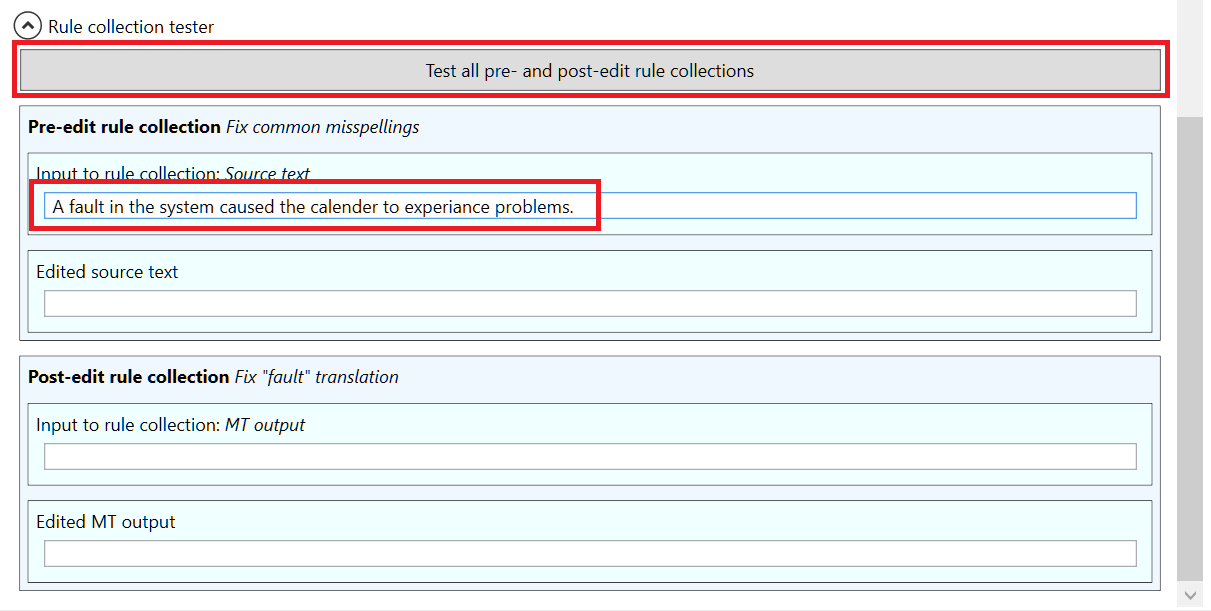
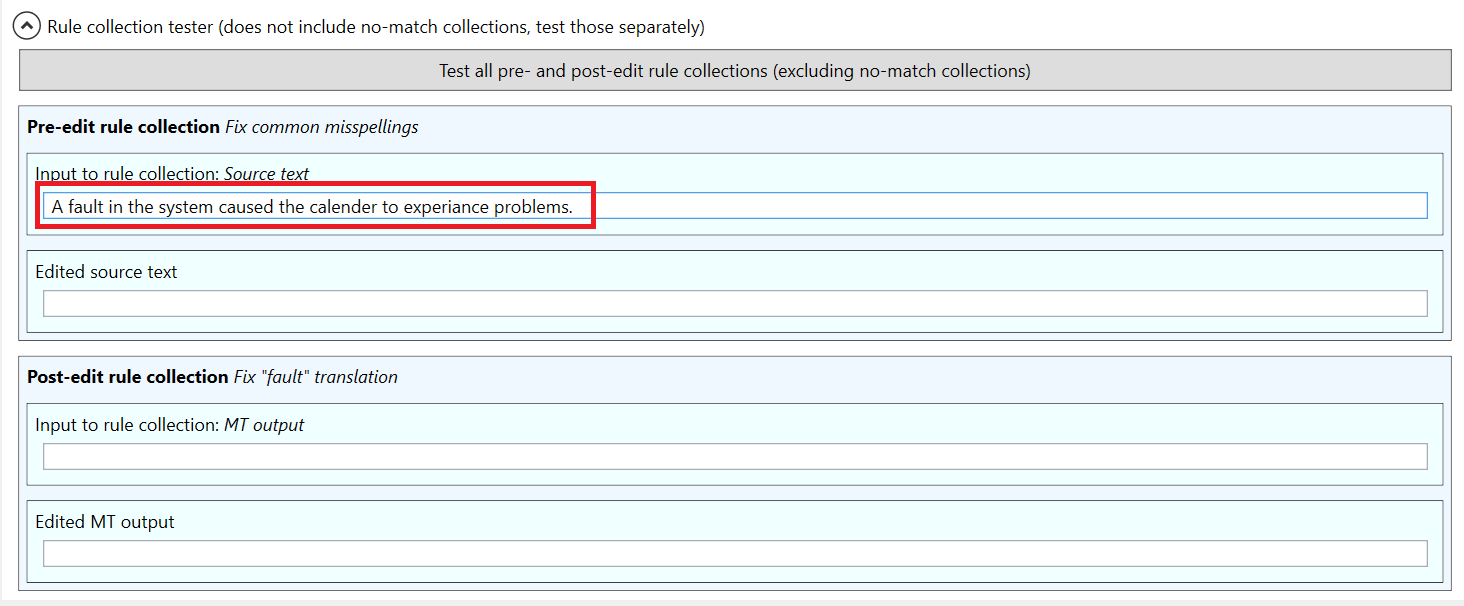
updated all sections

Changed region(s): [[0.0, 0.0, 1.0, 0.9802]]

diff --git a/index.md b/index.md
@@ -2,42 +2,40 @@
 layout: home
 ---
 
-TermInjectorPlus is an updated version of the TermInjector plugin for Trados Studio. With TermInjectorPlus, you can define three types of rules:
-1. Pre-edit rules: Rules that modify source text before it is sent to a translation provider (translation memory or machine translation engine). These rules can be used to fix source errors or to modify constructions that are difficult for machine translation engines.
-2. Post-edit rules: Rules that modify the translations from a translation provider. These rules can be used to fix recurring error in translation provider output.
-3. No-match rules: Rules that modify the source text, which are only applied in case a translation provider does not provide a match. These rules can be used for instance to convert dates and numbers and to add translations for parts of the source text.
+TermInjectorPlus is an updated version of the TermInjector plugin for Trados Studio. TermInjectorPlus can be used with most translation providers (translation memories and machine translation providers) available in Trados. TermInjector acts as a wrapper around a translation provider, and it can modify both the source text sent into the translation provider and the output text that the translation provider returns.
+
+In TermInjectorPlus, you can define three types of rules:
+
+1. **Pre-edit rules**: Rules that modify source text before it is sent to a translation provider (translation memory or machine translation engine). These rules can be used to fix source errors or to modify constructions that are difficult for machine translation engines.
+2. **Post-edit rules**: Rules that modify the translations from a translation provider. These rules can be used to fix recurring error in translation provider output.
+3. **No-match rules**: Rules that modify the source text, which are only applied in case a translation provider does not provide a match. These rules can be used for instance to convert dates and numbers and to add translations for parts of the source text. No-match rules can also be used without specifying a translation provider.
 
 Regular expressions ([.NET regex flavor](https://docs.microsoft.com/en-us/dotnet/standard/base-types/regular-expression-language-quick-reference)) can be used in the rules. Rules are organized into _rule collections_, which can contain any number of rules. 
 
 ## Contents
-1. [Quickstart (pre-edit rules without translation provider)](#Quickstart)
-2. [Selecting a translation provider](#select_tp)
-3. [Pre-edit rules with a translation provider](#pre_edit_with_tp)
-4. [Rule collections](#rule_collections) 
-5. [Post-edit rules](#post_edit_rules)
-6. [Rule testers](#rule_testers)  
-  4.1 [Testing the entire translation pipeline](#pipeline_tester)
-7. [Managing rule collections](#management)  
-  5.1 [Importing and exporting rule collections](#import_export)
-8. [Using regular expressions in rules](#regex)  
-  6.1 [Capturing groups](#cap_groups)  
-  6.2 [Changing the character case of text matched by capturing groups](#case_conversion)  
-  6.3 [Referencing source pattern capturing groups in post-edit rules](#source_ref)
-9. [Using rule collections sequentially](#sequential_use)
-10. Templates
+1. [Quickstart](#Quickstart)
+2. [Setting up a translation provider](#select_tp)
+3. [Rule collections](#rule_collections) 
+4. [Post-edit rules](#post_edit_rules)
+5. [Rule testers](#rule_testers)  
+  5.1 [Testing the entire translation pipeline](#pipeline_tester)
+6. [Managing rule collections](#management)  
+  6.1 [Importing and exporting rule collections](#import_export)
+7. [Using regular expressions in rules](#regex)  
+  7.1 [Capturing groups](#cap_groups)  
+  7.2 [Changing the character case of text matched by capturing groups](#case_conversion)  
+  7.3 [Referencing source pattern capturing groups in post-edit rules](#source_ref)
+8. [Using rule collections sequentially](#sequential_use)
+9. [Adding a no-match rule](#no_match)
+10. [Templates](#templates)
 
-### <a name="Quickstart"></a>1. Quickstart: Adding a simple pre-edit rule (no-match rule)
-
-### <a name="select_tp"></a>2. Quickstart: Selecting a translation provider
-
-### <a name="pre_edit_with_tp"></a>3. Adding a pre-edit rule for translation provider
+### <a name="Quickstart"></a>1. Quickstart: Adding a simple pre-edit rule
 
 1. Select **TermInjectorPlus** in the **Use** menu of **Project Settings**.
 
     <img src="./images/usemenu.png?raw=true" alt="drawing" width="100%"/>
 
-
-2. The **TermInjectorPlus** settings window opens. When you Open the **Translation provider** drop-down menu, you see a list of all the translation providers available in your Trados Studio. Select **File-based translation memory**.
+2. The **TermInjectorPlus** settings window opens. When you Open the **Translation provider** drop-down menu, you see a list of all the translation providers available in your Trados Studio. Select **File-based translation memory**, and then select a file-based translation memory in the file selection dialog that opens (any TM will do for the purposes of this step).
 
     <img src="./images/selecttp.png?raw=true" alt="drawing" width="100%"/>
 
@@ -67,13 +65,37 @@ Regular expressions ([.NET regex flavor](https://docs.microsoft.com/en-us/dotnet
 
     <img src="./images/editrules6.png?raw=true" alt="drawing" width="100%"/>
     
-7. Now that the rule is tested and verified to work, you can save it by clicking **Save** (note that testing the rule is not required, but it reduces the chance of mistakes, especially with more complex rules). When you click **Save**, the **Create edit rule** window is closed, and the new rule is displayed on the **Edit rules** tab of the MT Engine, and it will now be applied when machine translations are generated with this model:
+7. Now that the rule is tested and verified to work, you can save it by clicking **Save** (note that testing the rule is not required, but it reduces the chance of mistakes, especially with more complex rules). When you click **Save**, the **Create edit rule** window is closed, and the new rule is displayed in the **Pre-edit rules** section of TermInjectorPlus, and it will now be applied when  translations are retrieved from the selected translation provider:
 
     <img src="./images/preeditrule.png?raw=true" alt="drawing" width="100%"/>
+    <img src="./images/acheive.png?raw=true" alt="drawing" width="100%"/>
 
-### <a name="rule_collections"></a>2. Rule collections
 
-As mentioned, edit rules are organized into _rule collections_, which may contain any amount of rules. Every rule must be part of a rule collection, so when you create a rule using the **Create rule** button (as in the quickstart section above), a rule collection is also created to contain the rule. The default name of the created rule collection is the same as the description of the rule that it contains (_fix "acheive" misspelling_ in the example above). You can edit a rule collection by selecting it from the list and clicking **Edit rule collection**:
+### <a name="select_tp"></a>2. Setting up a translation provider
+
+In the [Quickstart](#Quickstart), we selected a file-based translation as the translation provider. This required simply selecting the file-based translation memory in the file selection dialog, but some translation providers require more setting up. This is especially the case with machine translation providers, as they often require specifying an API key.
+
+Whenever you select a translation provider from the **Translation provider** drop-down, the settings window of the translation provider opens, and you need to specify the information that the translation provider requires. As an example, let's set up the OPUS-CAT machine translation provider:
+
+1. Install the **OPUS-CAT plugin** from RWS appstore (can be accessed from the **Add-Ins** tab of the Trados ribbon).
+
+2. Install **OPUS-CAT MT Engine** by following the instructions [here](https://helsinki-nlp.github.io/OPUS-CAT/install).
+
+3. Click the **Translation provider** drop-down and select **OPUS-CAT**:
+
+  <img src="./images/opuscat_settings.png?raw=true" alt="drawing" width="100%"/>
+
+4. The OPUS-CAT plugin settings window opens. As the plugin does not require an API key, we can simply click **Save** to confirm the selection of OPUS-CAT as the translation provider:
+
+  <img src="./images/opuscat_settings2.png?raw=true" alt="drawing" width="100%"/>
+  
+5. OPUS-CAT is now shown as the translator provider in TermInjectorPlus settings. You can modify the translation provider settings by clicking **Open settings**, or clear the translation provider by clicking **Clear**:
+
+  <img src="./images/opuscat_settings3.png?raw=true" alt="drawing" width="100%"/>
+
+### <a name="rule_collections"></a>3. Rule collections
+
+As mentioned, edit rules are organized into _rule collections_, which may contain any amount of rules. Every rule must be part of a rule collection, so when you create a rule using the **Create rule** button (as in the quickstart section above), a rule collection is also created to contain the rule. The default name of the created rule collection is the same as the description of the rule that it contains (_fix "acheive" misspelling_ in the quickstart). You can edit a rule collection by selecting it from the list and clicking **Edit rule collection**:
 
   <img src="./images/editrules8.png?raw=true" alt="drawing" width="100%"/>
 
@@ -87,11 +109,13 @@ The **Edit rules in collection** window contains a field for the name of the col
 
 <a name="global"></a>The **Edit rules in collection** window also contains a field for modifying the name of the collection, and a checkbox labeled **Global collection**. If the **Global collection** checkbox is checked, the collection can be added to other models by using the **Add rule collection** button in the **Edit rules** tab. The checkbox is unchecked by default for newly created models, to avoid cluttering the list of global collections.
 
+The **No-match collection** checkbox can be checked to indicate that the collection is a no-match collection, which means that its rules will only be applied in cases where the translation provider does not provide a match. See [No-match rules section](#nomatch) for more information.
+
 After you have edited the collection by adding, deleting, or modifying rules or by changing the collection name or its global status, you can either save the modifications by clicking the **Save** button, or reject them by clicking the **Cancel** button. 
 
-### <a name="post_edit_rules"></a>3. Post-edit rules
+### <a name="post_edit_rules"></a>4. Post-edit rules
 
-Post-edit rules are used to edit the output of the machine translation produced by the model. You can create a post-edit rule by clicking on the **Create rule** button in the **Post-edit rule collections** section of the **Edit rules** tab:
+Post-edit rules are used to edit the output of the translation provider. You can create a post-edit rule by clicking on the **Create rule** button in the **Post-edit rule collections** section of TermInjectorPlus settings:
 
   <img src="./images/editrules11.png?raw=true" alt="drawing" width="100%"/>
 
@@ -112,7 +136,7 @@ Here's a simple example rule, where all four fields are used:
 
   <img src="./images/editrules14.png?raw=true" alt="drawing" width="100%"/>
 
-This rule replaces the word _vika_ in the MT output with the word _virhe_, but only if the original source text contained the word _fault_. So in this rule, the source pattern is used as a condition for the replacement.
+This rule replaces the word _vika_ in the translation provider output with the word _virhe_, but only if the original source text contained the word _fault_. So in this rule, the source pattern is used as a condition for the replacement.
 
 <a name="post_edit_tester"></a>As in the **Create pre-edit rule** window, the lower section contains a tester, which can be used to verify that the rule works as intended. If a source pattern has been defined, the tester will contain an additional field for entering the test source text, against which the source pattern will be matched:
 
@@ -122,12 +146,12 @@ Once the post-edit rule has been defined, it can be saved by clicking the **Save
 
   <img src="./images/editrules13.png?raw=true" alt="drawing" width="100%"/>
 
-### <a name="rule_testers"></a>4. Rule testers
+### <a name="rule_testers"></a>5. Rule testers
 
 Rule testers can be used to verify that the edit rules work correctly both individually and in combination with other rules. Testers are available in the following contexts:
   1. **Create pre-edit rule** and **Create post-edit rule** windows
   2. **Edit rules in collection** window
-  3. **Edit rules** tab
+  3. TermInjectorPlus settings window
   
 Each rule tester is similar, but there are some differences. The testers in the **Create pre-edit rule** and **Create post-edit rule** windows are always visible, and they are always used to test a single rule at a time. See [Pre-edit rule tester](#pre_edit_tester) and [Post-edit rule tester](#post_edit_tester) for more information on these testers.
 
@@ -141,9 +165,9 @@ When you click the button, the tester expands. The following screenshot shows th
 
 As you can see from the image above, matches for all of the listed rules are highlighted in the tester.
 
-#### <a name="pipeline_tester">4.1 Testing the entire translation pipeline in the **Edit rules** tab
+#### <a name="pipeline_tester">5.1 Testing the entire translation pipeline in TermInjectorPlus settings
 
-The tester in the **Edit rules in collection** window is the most comprehensive tester, since it tests both the pre-edit and post-edit rule collections: the tester edits the source text with each of the pre-edit rule collections, then produces a machine translation from the edited source text, and finally edits the MT output with all the post-edit rule collections. This tester is also hidden by default, and it can be opened by clicking the expander button at the bottom of the tab:
+The tester in the TermInjectorPlus settings window is the most comprehensive tester, since it tests both the pre-edit and post-edit rule collections: the tester edits the source text with each of the pre-edit rule collections, then retrieves a match for the edited source text from the translation provider, and finally edits the translation provider output with all the post-edit rule collections. This tester is also hidden by default, and it can be opened by clicking the expander button at the bottom of the tab:
 
   <img src="./images/editrules17.png?raw=true" alt="drawing" width="100%"/>
 
@@ -157,9 +181,9 @@ If the **Edit rules** tab tester is being used for the first time, there will be
 
 The parts of the text, which match some rule, are highlighted. The image above shows that the original source text is first edited to correct two misspellings (_calender_ and _experiance_), the edited source text is then used as MT input, and the MT output is then edited to replace _vika_ with _virhe_ (as the source text fulfills the condition of having the word _fault_ in it). 
 
-### <a name="management"></a>5. Adding, removing, and deleting rule collections
+### <a name="management"></a>6. Adding, removing, and deleting rule collections
 
-Rule collections can be added, removed or deleted in the **Edit rules** tab. Rule collections that have been defined as [global](#global), can be used in multiple MT models, and they can be removed and added by using the **Add rule collection** and **Remove rule collection** buttons. Local and global rule collections can be permanently deleted by clicking the **Delete rule collection** button (deletion needs to be confirmed, as the same rule collection may be in use in other MT models):
+Rule collections can be added, removed or deleted in the **Edit rules** tab. Rule collections that have been defined as [global](#global), can be used with multiple translation providers, and they can be removed and added by using the **Add rule collection** and **Remove rule collection** buttons. Local and global rule collections can be permanently deleted by clicking the **Delete rule collection** button (deletion needs to be confirmed, as the same rule collection may be in use in other MT models):
 
   <img src="./images/editrules20.png?raw=true" alt="drawing" width="100%"/>
 
@@ -167,16 +191,16 @@ When you click the **Add rule collection** button, the **Add edit rule collectio
 
   <img src="./images/editrules21.png?raw=true" alt="drawing" width="100%"/>
 
-If we check the checkbox for the _Expand contractions_ rule collection and click the **Save** button, the _Expand contractions_ collection will be added to the rule collection list on the **Edit rules** tab:
+If we check the checkbox for the _Expand contractions_ rule collection and click the **Save** button, the _Expand contractions_ collection will be added to the rule collection list in the TermInjectorPlus settings window:
 
   <img src="./images/editrules22.png?raw=true" alt="drawing" width="100%"/>
   
-The addition of the collection is also reflected in the tester of the **Edit rules** tab. Two pre-edit rule collections are now displayed in the tester, and the rules of both collections are applied to the source sentence before it is machine translated:
+The addition of the collection is also reflected in the tester of the TermInjectorPlus settings window. Two pre-edit rule collections are now displayed in the tester, and the rules of both collections are applied to the source sentence before it is machine translated:
 
   <img src="./images/editrules23.png?raw=true" alt="drawing" width="100%"/>
   
 
-#### <a name="import_export"></a>5.1 Importing and exporting rule collections
+#### <a name="import_export"></a>6.1 Importing and exporting rule collections
 
 The **Add edit rule collection** window can also be used to import and export rule collections. There are two buttons in the top section of the window:
 
@@ -186,16 +210,16 @@ The **Add edit rule collection** window can also be used to import and export ru
   2. **Import rule collections**: With this button you can import rule collections and add them to the model. Imported rule collections become global, so they can also be used with other models after importing them. Next to this button is the **Replace existing rules** checkbox. If this checkbox is checked, the rule collections will overwrite existing rule collections that have same ID number. If the checkbox is not checked, the imported rule collection will receive a new ID number, and the old collection will not be overwritten.
   
 
-### <a name="regex"></a>6. Using regular expressions in rules
+### <a name="regex"></a>7. Using regular expressions in rules
 
-Both pre-edit and post-edit rules can contain regular expressions ([.NET regex flavor](https://docs.microsoft.com/en-us/dotnet/standard/base-types/regular-expression-language-quick-reference)). Regular expressions enhance the capability of the rules significantly. Providing a comprehensive tutorial on regular expression usage is beyond the scope of this documentation, so this section will only cover the usage of regular expressions in the OPUS-CAT MT Engine. However, there are many introductory articles aimed at translators available, e.g. [this article by Riccardo Schiaffino from the ATA Chronicle](https://www.ata-chronicle.online/highlights/regular-expressions-an-introduction-for-translators/).
+Both pre-edit and post-edit rules can contain regular expressions ([.NET regex flavor](https://docs.microsoft.com/en-us/dotnet/standard/base-types/regular-expression-language-quick-reference)). Regular expressions enhance the capability of the rules significantly. Providing a comprehensive tutorial on regular expression usage is beyond the scope of this documentation, so this section will only cover the usage of regular expressions in TermInjectorPlus. However, there are many introductory articles aimed at translators available, e.g. [this article by Riccardo Schiaffino from the ATA Chronicle](https://www.atanet.org/resources/regular-expressions-an-introduction-for-translators/).
 
 Regular expressions can be used in pre- and post-edit rules by checking the **Use regex** checkbox when creating or editing the rule:
 
   <img src="./images/editrules25.png?raw=true" alt="drawing" width="100%"/>
   <img src="./images/editrules26.png?raw=true" alt="drawing" width="100%"/>
   
-When the **Use regex** checkbox next to a rule pattern field has been checked, the pattern is interpreted as a regular expression. If the checkbox is not checked, regular expressions special characters in the pattern will be interpreted as normal text. Let's take for instance the special character _._ (period), which stands for any character in regular expressions. Let's say we have the pattern _Window._. If the **Use regex** checkbox has not been checked, the pattern will only match _Window._:
+When the **Use regex** checkbox next to a rule pattern field has been checked, the pattern is interpreted as a regular expression. If the checkbox is not checked, special characters in the pattern will be interpreted as normal text. Let's take for instance the special character _._ (period), which stands for any character in regular expressions. Let's say we have the pattern _Window._. If the **Use regex** checkbox has not been checked, the pattern will only match _Window._:
 
   <img src="./images/editrules29.png?raw=true" alt="drawing" width="100%"/>
 
@@ -203,7 +227,7 @@ When the **Use regex** checkbox next to a rule pattern field has been checked, t
  
   <img src="./images/editrules30.png?raw=true" alt="drawing" width="100%"/>
 
-#### <a name="cap_groups"></a>6.1 Capturing groups
+#### <a name="cap_groups"></a>7.1 Capturing groups
 
 If **Use regex** checkbox has been checked, it's also possible to use regular expression capturing groups in the replacement fields of the rule. Capturing groups make it possible to copy text from the match to the replacement string. Here's an example of how capturing groups can be used:
 
@@ -225,9 +249,9 @@ Capturing groups capture the part of the source text that they match. For instan
 
 The capturing groups of the rule pattern capture the letter sequences in the incorrectly hyphenated word, and the replacement _$1$2_ reconstructs the word without the hyphen.
 
-#### <a name="case_conversion"></a>6.2 Changing the character case of text matched by capturing groups
+#### <a name="case_conversion"></a>7.2 Changing the character case of text matched by capturing groups
 
-The regular expressions in the OPUS-MT Engine contain some extensions to the .NET regular expression language. One of these is the possibility to convert the text matched by capturing group into lower or upper case. The case of the letters in a capturing group can be converted by adding _L_ (for lower case), _U_ (for upper case), or _C_ (for upper-case first letter) after the dollar sign but before the index. Let's say for instance that the source text contains sentences that are written in ALL CAPS, i.e. just using upper case letters. This may degrade the quality of the machine translation, so it makes sense to convert the source sentence to lower case before machine translating it. This can be done with the following rule:
+The regular expressions in TermInjectorPlus contain some extensions to the .NET regular expression language. One of these is the possibility to convert the text matched by capturing group into lower or upper case. The case of the letters in a capturing group can be converted by adding _L_ (for lower case), _U_ (for upper case), or _C_ (for upper-case first letter) after the dollar sign but before the index. Let's say for instance that the source text contains sentences that are written in ALL CAPS, i.e. just using upper case letters. This may degrade the quality of the machine translation, so it makes sense to convert the source sentence to lower case before machine translating it. This can be done with the following rule:
 
   <img src="./images/editrules35.png?raw=true" alt="drawing" width="100%"/>
   
@@ -237,7 +261,7 @@ In this rule, the source pattern contains two capturing groups, one for the init
   
 Note that the match covers the whole sentence. This is intended, since the rule should be used only with sentences that contain no lower-case letters.
 
-#### <a name="source_ref"></a>6.3 Referencing source pattern capturing groups in post-edit rules
+#### <a name="source_ref"></a>7.3 Referencing source pattern capturing groups in post-edit rules
 
 As mentioned before, post-edit rules have a source pattern field, which can be used as a condition for rule application: if a source pattern is defined, the source text must match the pattern, otherwise the rule will not be applied. It is also possible to use capturing groups in the source pattern field of post-edit rules. This makes it possible to copy parts of text from the source sentence when applying a post-edit rule. The following example shows one scenario, in which this functionality can be useful:
 
@@ -265,14 +289,14 @@ With this rule, the problematic _ERROR-XXXXX:_ part of the sentence is removed b
 
   <img src="./images/editrules38.png?raw=true" alt="drawing" width="100%"/>
 
-We can verify that these rules work correctly together by using the tester for the whole translation pipeline in the **Edit rules** tab:
+We can verify that these rules work correctly together by using the tester for the whole translation pipeline in the TermInjectorPlus settings window:
 
   <img src="./images/editrules39.png?raw=true" alt="drawing" width="100%"/>
   <img src="./images/editrules40.png?raw=true" alt="drawing" width="100%"/>
 
 As you can see from the images above, the two rules transfer the text from the original source (top field of the tester) to the final translation (bottom field in the tester), without ever machine translating the problematic part of the source sentence.
 
-### <a name="sequential_use"></a>7. Using rule collections sequentially
+### <a name="sequential_use"></a>8. Using rule collections sequentially
 
 As was demonstrated in the previous section, using rules in combination can be more powerful than just using a single rule. It is also possible to use several pre-edit or post-edit rules together to make more complex replacements than single rules allow for. Each rule collection is processed sequentially, which means that the output of the previous rule collection is used as the input of the next rule collection. To see how rule collections can be combined sequentially to perform complex replacements, let's return to the case conversion example from the previous section. In the case conversion example we created a rule, which converted ALL CAPS source sentences to lower case (except for the first letter):
 
@@ -296,3 +320,53 @@ This time we use the upper casing operator _$U1_ to upper case the abbreviation.
   <img src="./images/editrules45.png?raw=true" alt="drawing" width="100%"/>
   
 By combining sequential rule collections in this way, very complex replacement operations can be performed.
+
+### <a name="no_match"></a>9. Adding a no-match rule
+
+No-match rules are only used when the translation provider does not provide translation. This is usually only the case with translation memories, so you can think of no-match rules as augmenting translation memory-assisted translation without machine translation. The main use of no-match rules is to translate parts of the source sentence to reduce the workload of the translator. For instance, let's take a medical translation where it is not possible to use machine translation, and there are many occurrences of the pharmacological term _acetylcholinesterase_.
+
+1. Select **TermInjectorPlus** in the **Use** menu of **Project Settings**.
+
+    <img src="./images/usemenu.png?raw=true" alt="drawing" width="100%"/>
+
+2. The **TermInjectorPlus** settings window opens.
+
+    <img src="./images/nomatchrule1.png?raw=true" alt="drawing" width="100%"/>
+
+3. Click the **Create rule** button in the left lower part of the settings.
+ 
+    <img src="./images/createrulebutton.png?raw=true" alt="drawing" width="100%"/>
+
+4. The **Create edit rule** window opens.
+
+    <img src="./images/editrules3.png?raw=true" alt="drawing" width="100%"/>
+    
+   The **Create edit rule** window has two sections. The rule is defined in the upper section, and the rule can be tested in the lower section. There are three fields in the upper **Define pre-edit rule** section:
+
+   - **Rule description**: Freeform description of the rule, preferably as informative as possible.
+   - **Pre-edit pattern**: This is the pattern that the rule will search for in the source text.
+   - **Pre-edit replacement**: This is the text that will replace the part of the source text that has been matched by the **Pre-edit pattern**.
+   
+5. Let's create a simple no-match rule that translates the term _acetylcholinesterase_:
+
+    <img src="./images/nomatch.png?raw=true" alt="drawing" width="100%"/>
+    
+6. Rules are not created by default as no-match rules, so the rule collection needs to be specified as a no-match collection. Select the newly created rule collection and click **Edit rule collection**:
+
+    <img src="./images/nomatch3.png?raw=true" alt="drawing" width="100%"/>
+
+7. In the **Edit rule collection** window, check the **No-match collection checkbox** and click **Save**:
+
+  <img src="./images/nomatch2.png?raw=true" alt="drawing" width="100%"/>
+
+8. Save the TermInjectorPlus settings by clicking **Save settings**:
+
+  <img src="./images/nomatch5.png?raw=true" alt="drawing" width="100%"/>
+
+9. Once the TermInjectorPlus settings have been saved, TermInjectorPlus will apply the rule in the Trados editor, whenever the source segment contains the term _acetylcholinesterase_. Note that the match percentage is 0, indicating that the translation proposal is the result of applying no-match rules:
+
+  <img src="./images/nomatch4.png?raw=true" alt="drawing" width="100%"/>
+  
+### <a name="templates"></a>10. Templates
+
+TermInjectorPlus configurations can be saved as templates so that it can be easily used in new translation projects. 
